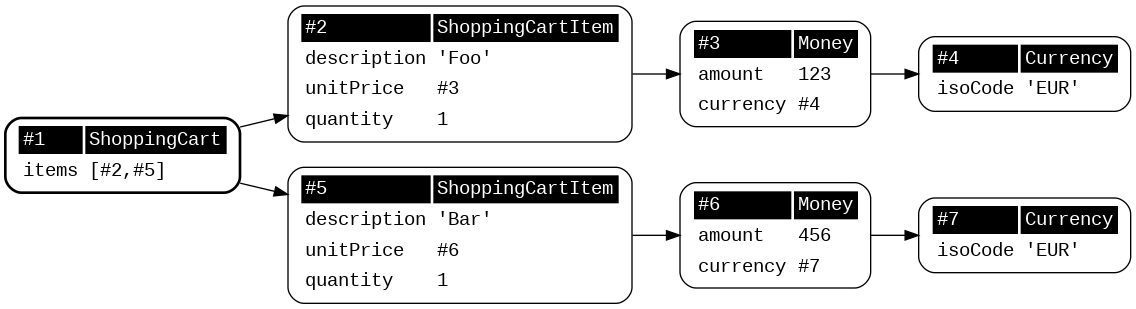
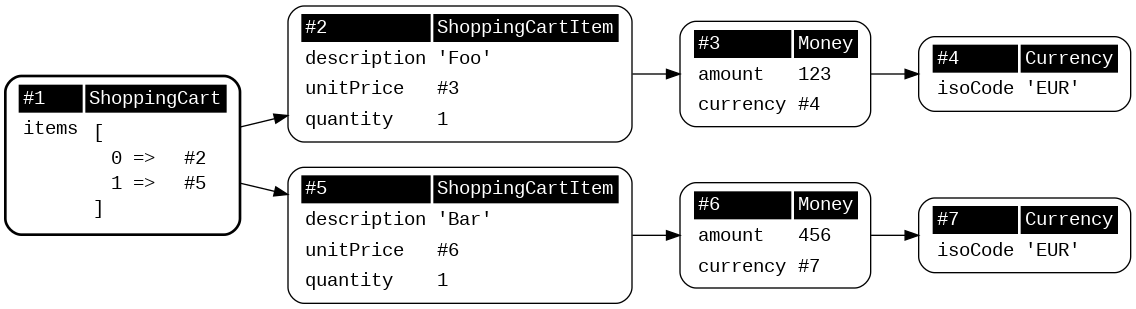
Include information about array keys in DOT output

Changed region(s): [[0.0, 0.233, 0.2157, 0.7864]]

diff --git a/src/DotWriter.php b/src/DotWriter.php
@@ -35,7 +35,7 @@ EOT;
                 }
 
                 $attributes .= \sprintf(
-                    '<tr><td align="left">%s</td><td align="left">%s</td></tr>',
+                    '<tr><td align="left" valign="top">%s</td><td align="left" valign="top">%s</td></tr>',
                     $name,
                     $value
                 );
@@ -78,7 +78,7 @@ EOT;
 
     private function arrayToString(array $array): string
     {
-        $tmp = [];
+        $buffer = '<table border="0" cellborder="0" cellpadding="1" bgcolor="white"><tr><td align="left" valign="top" colspan="3">&#91;</td></tr>';
 
         foreach ($array as $key => $value) {
             if ($value instanceof NodeReference) {
@@ -89,9 +89,13 @@ EOT;
                 $value = \var_export($value, true);
             }
 
-            $tmp[$key] = $value;
+            $buffer .= sprintf(
+                '<tr><td></td><td align="left" valign="top">%s =&gt; </td><td align="left" valign="top">%s</td></tr>',
+                $key,
+                $value
+            );
         }
 
-        return '[' . \implode(',', $tmp) . ']';
+        return $buffer . '<tr><td align="left" valign="top" colspan="3">&#93;</td></tr></table>';
     }
 }

diff --git a/ChangeLog.md b/ChangeLog.md
@@ -2,6 +2,12 @@
 
 All notable changes to `sebastian/object-graph` are documented in this file using the [Keep a CHANGELOG](http://keepachangelog.com/) principles.
 
+## [1.1.0] - 2017-MM-DD
+
+### Changed
+
+* The `DotWriter` now emits information about array keys
+
 ## [1.0.1] - 2017-10-18
 
 ### Fixed
@@ -12,4 +18,5 @@ All notable changes to `sebastian/object-graph` are documented in this file usin
 
 * Initial release
 
+[1.1.0]: https://github.com/sebastianbergmann/object-graph/compare/1.0.1...1.1.0
 [1.0.1]: https://github.com/sebastianbergmann/object-graph/compare/1.0.0...1.0.1
